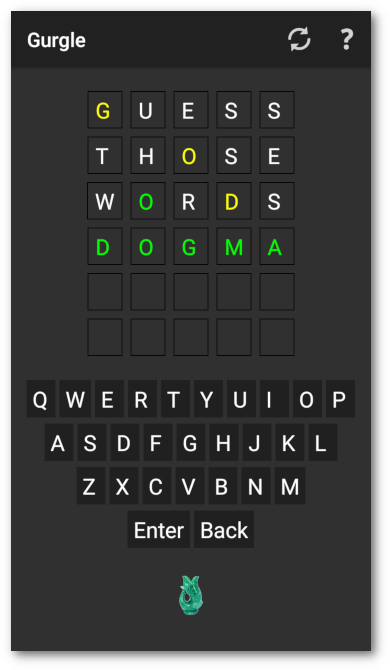
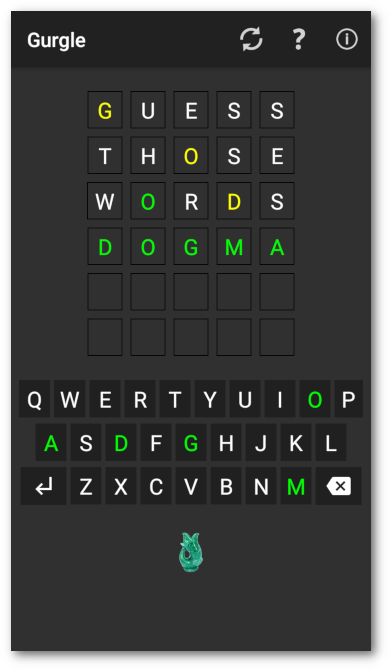
Update Gurgle docs

diff --git a/gurgle/content/display/_index.md b/gurgle/content/display/_index.md
@@ -6,6 +6,7 @@ weight: 300
 ---
 
 Letters which are in the word but in the wrong place will turn
-yellow. If they are in the right place they will turn green. Keep
-trying until you have guessed the word. The display will start again
-from the top if you run out of guesses.
+yellow. If they are in the right place they will turn green. If they
+are not in the word they will turn grey. Keep trying until you have
+guessed the word. The display will start again from the top if you run
+out of guesses.
